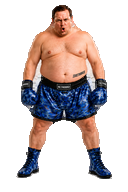
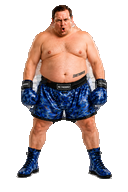
Fix Default Male ooh armpits and show gym backdrop in ring play
Punch inner armpit pockets after seal to clear white studio fill on ooh.
Render CartoonGym behind the play ring for all boxers without a Parliament
backdrop (King Of The North, Bozza, The Greenie, The Nige keep Westminster).

Changed region(s): [[0.25, 0.3125, 0.4062, 0.4688], [0.6562, 0.2812, 0.7188, 0.4375]]

diff --git a/frontend/src/play/RingPlayScene.tsx b/frontend/src/play/RingPlayScene.tsx
@@ -3,6 +3,7 @@ import type { GlovePosition } from '../types/game';
 import { Canvas, useFrame, useThree } from '@react-three/fiber';
 import * as THREE from 'three';
 import { SparringPartner, RING_CANVAS_SURFACE_Y, RING_SPRITE_SCALE } from '../gym/SparringPartner';
+import { CartoonGym } from '../gym/CartoonGym';
 import { ringZoneScreenOffset } from './ringImpact';
 import { applyRingHitImpulse, createRingSwingState, stepRingSwing } from './ringSwing';
 import {
@@ -187,6 +188,11 @@ export function RingPlayScene({
     >
       {themed ? null : <color attach="background" args={['#1a1208']} />}
       <RingPlayEnvironment themed={themed} />
+      {themed ? null : (
+        <group position={[0, 0, RING_GROUP_ORIGIN_Z]}>
+          <CartoonGym />
+        </group>
+      )}
       <Suspense fallback={null}>
         <PlayRing
           impacts={impacts}

diff --git a/frontend/scripts/bake_default_ring_poses.py b/frontend/scripts/bake_default_ring_poses.py
@@ -116,8 +116,8 @@ def finalize_idle(arr: np.ndarray) -> np.ndarray:
     return peel_exterior_fringe(arr, pale=True, passes=40)
 
 
-def armpit_clear_mask_ooh(body: np.ndarray) -> np.ndarray:
-    """Wider wedges for arms-down ooh pose — clears white gaps beside the torso."""
+def armpit_gap_mask(body: np.ndarray) -> np.ndarray:
+    """Inner armpit pockets on arms-down ooh pose."""
     solid = body[:, :, 3] > 40
     if not solid.any():
         return np.zeros(solid.shape, dtype=bool)
@@ -126,19 +126,20 @@ def armpit_clear_mask_ooh(body: np.ndarray) -> np.ndarray:
     fig_h, fig_w = y1 - y0, x1 - x0
 
     mask = np.zeros(solid.shape, dtype=bool)
-    y_top = y0 + int(0.10 * fig_h)
-    y_bot = y0 + int(0.52 * fig_h)
+    y_top = y0 + int(0.12 * fig_h)
+    y_bot = y0 + int(0.46 * fig_h)
     for y in range(y_top, y_bot):
         t = (y - y_top) / max(1, y_bot - y_top - 1)
-        lx0 = x0 + int(fig_w * (0.04 + 0.10 * t))
-        lx1 = x0 + int(fig_w * (0.34 - 0.02 * t))
+        lx0 = x0 + int(fig_w * (0.22 + 0.03 * (1 - t)))
+        lx1 = x0 + int(fig_w * (0.40 - 0.02 * t))
         mask[y, lx0:lx1] = True
-        rx1 = x1 - int(fig_w * (0.04 + 0.10 * t))
-        rx0 = x1 - int(fig_w * (0.34 - 0.02 * t))
+        rx0 = x0 + int(fig_w * (0.58 + 0.02 * t))
+        rx1 = x0 + int(fig_w * (0.78 - 0.03 * t))
         mask[y, rx0:rx1] = True
 
     hull = ndimage.binary_fill_holes(ndimage.binary_closing(solid, iterations=3))
-    return mask & hull
+    near = ndimage.binary_dilation(solid, iterations=14)
+    return mask & hull & near
 
 
 def armpit_clear_mask_idle(body: np.ndarray) -> np.ndarray:
@@ -178,13 +179,16 @@ def punch_idle_armpit_wedges(arr: np.ndarray) -> np.ndarray:
 
 
 def punch_ooh_armpit_wedges(arr: np.ndarray) -> np.ndarray:
+    """Clear sealed studio fill in inner armpit pockets on the ooh pose."""
     out = arr.copy()
+    wedge = armpit_gap_mask(out)
     rgb = out[:, :, :3].astype(np.int16)
     mx = rgb.max(axis=2)
     chroma = mx - rgb.min(axis=2)
-    wedge = armpit_clear_mask_ooh(out) | armpit_clear_mask_idle(out)
-    pale = (out[:, :, 3] > 40) & (mx > 120) & (chroma < 65)
-    out[wedge & pale, 3] = 0
+    corner = rgb[0, 0]
+    dist = np.abs(rgb - corner).sum(axis=2)
+    clear = wedge & ((dist <= 42) | ((mx > 196) & (chroma < 45)))
+    out[clear, 3] = 0
     return out
 
 
@@ -194,7 +198,19 @@ def preprocess_idle(arr: np.ndarray) -> np.ndarray:
 
 
 def assert_pose_solid(packed: Image.Image, pose: str) -> None:
-    assert_solid(packed, pose)
+    if pose != 'ooh':
+        assert_solid(packed, pose)
+        return
+    arr = np.asarray(packed)
+    allow = ndimage.binary_dilation(armpit_gap_mask(arr), iterations=5)
+    alpha = arr[:, :, 3]
+    opaque = alpha == 255
+    holes_mask = ndimage.binary_fill_holes(opaque) & ~opaque
+    holes_mask &= ~allow
+    holes = int(holes_mask.sum())
+    if holes:
+        raise SystemExit(f'{pose} not solid: holes={holes}')
+    print(f'{pose}: solid opaque={int(opaque.sum())}')
 
 
 def extract_face_pack(arr: np.ndarray) -> np.ndarray:
@@ -247,7 +263,10 @@ def bake_idle(path: Path) -> Image.Image:
 
 def bake_ooh(path: Path) -> Image.Image:
     keyed = Image.fromarray(key_default(Image.open(path)))
-    return seal_silhouette(pack(seal_silhouette(keyed)))
+    packed = seal_silhouette(pack(seal_silhouette(keyed)))
+    punched = punch_ooh_armpit_wedges(np.asarray(packed))
+    peeled = peel_exterior_fringe(punched, pale=True, passes=20)
+    return seal_silhouette(Image.fromarray(peeled), close_iters=3)
 
 
 def bake_knockout(path: Path) -> Image.Image:
